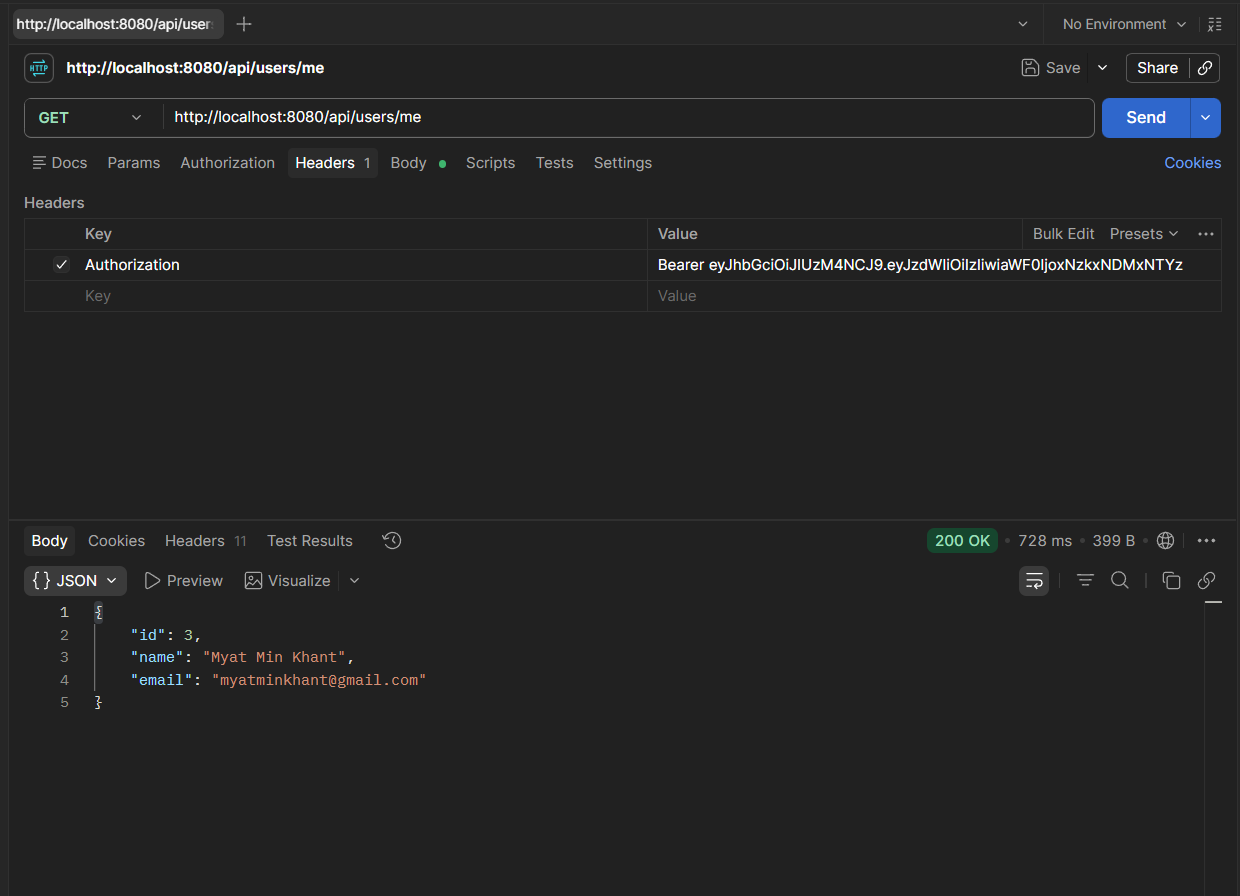
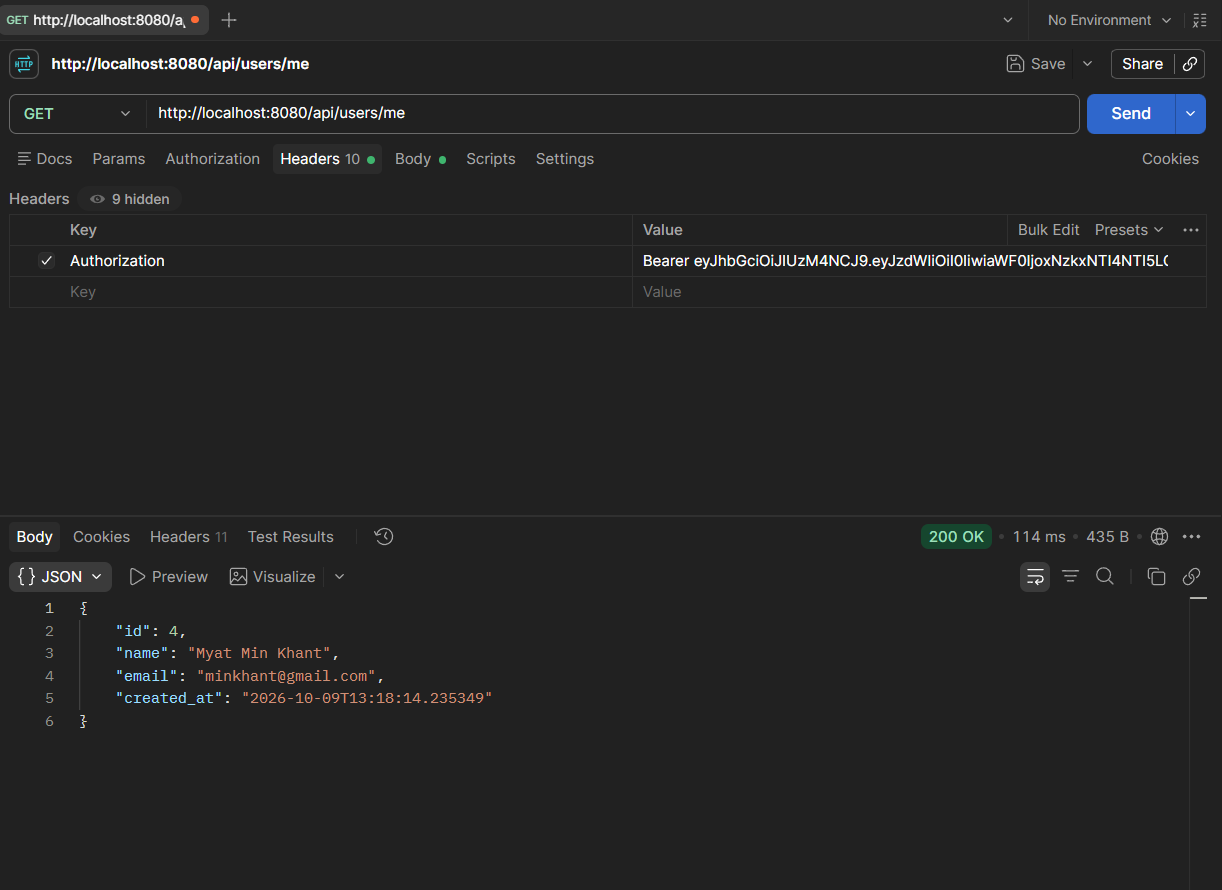
fix: update user entity

diff --git a/backend/src/main/java/com/myatminkhant/task_board/Entity/User.java b/backend/src/main/java/com/myatminkhant/task_board/Entity/User.java
@@ -1,5 +1,7 @@
 package com.myatminkhant.task_board.Entity;
 
+import java.time.LocalDateTime;
+
 import com.fasterxml.jackson.annotation.JsonIgnore;
 
 import jakarta.persistence.Column;
@@ -7,6 +9,7 @@ import jakarta.persistence.Entity;
 import jakarta.persistence.GeneratedValue;
 import jakarta.persistence.GenerationType;
 import jakarta.persistence.Id;
+import jakarta.persistence.PrePersist;
 import jakarta.persistence.Table;
 
 @Entity 
@@ -25,6 +28,14 @@ public class User {
     @JsonIgnore
     @Column(name = "password_hash",nullable = false)
     private String password_hash;
+
+    @Column(nullable = false, updatable = false)
+    private LocalDateTime created_at;
+
+    @PrePersist
+    protected void onCreate() {
+        created_at = LocalDateTime.now();
+    }
 
     public User() {
 
@@ -62,6 +73,10 @@ public class User {
 
     public void setPassword_hash(String password_hash) {
         this.password_hash = password_hash;
+    }
+
+    public LocalDateTime getCreated_at() {
+        return created_at;
     }
 
 }

diff --git a/backend/src/main/java/com/myatminkhant/task_board/DTO/SignupRequest.java b/backend/src/main/java/com/myatminkhant/task_board/DTO/SignupRequest.java
@@ -1,8 +1,6 @@
 package com.myatminkhant.task_board.DTO;
 
-import java.time.LocalDateTime;
 
-import jakarta.persistence.PrePersist;
 import jakarta.validation.constraints.Email;
 import jakarta.validation.constraints.NotBlank;
 import jakarta.validation.constraints.Size;
@@ -17,13 +15,6 @@ public class SignupRequest {
 
     @NotBlank (message = "Password is required.") @Size (min = 6,message = "Password must be at least 6 characters.")
     private String password_hash;
-
-     private LocalDateTime created_at;
-
-    @PrePersist
-    protected void onCreate() {
-        created_at = LocalDateTime.now();
-    }
 
     public SignupRequest() {
 
@@ -45,10 +36,6 @@ public class SignupRequest {
 
     public String getPassword_hash() {
         return password_hash;
-    }
-
-    public LocalDateTime getCreated_at() {
-        return created_at;
     }
 
     
